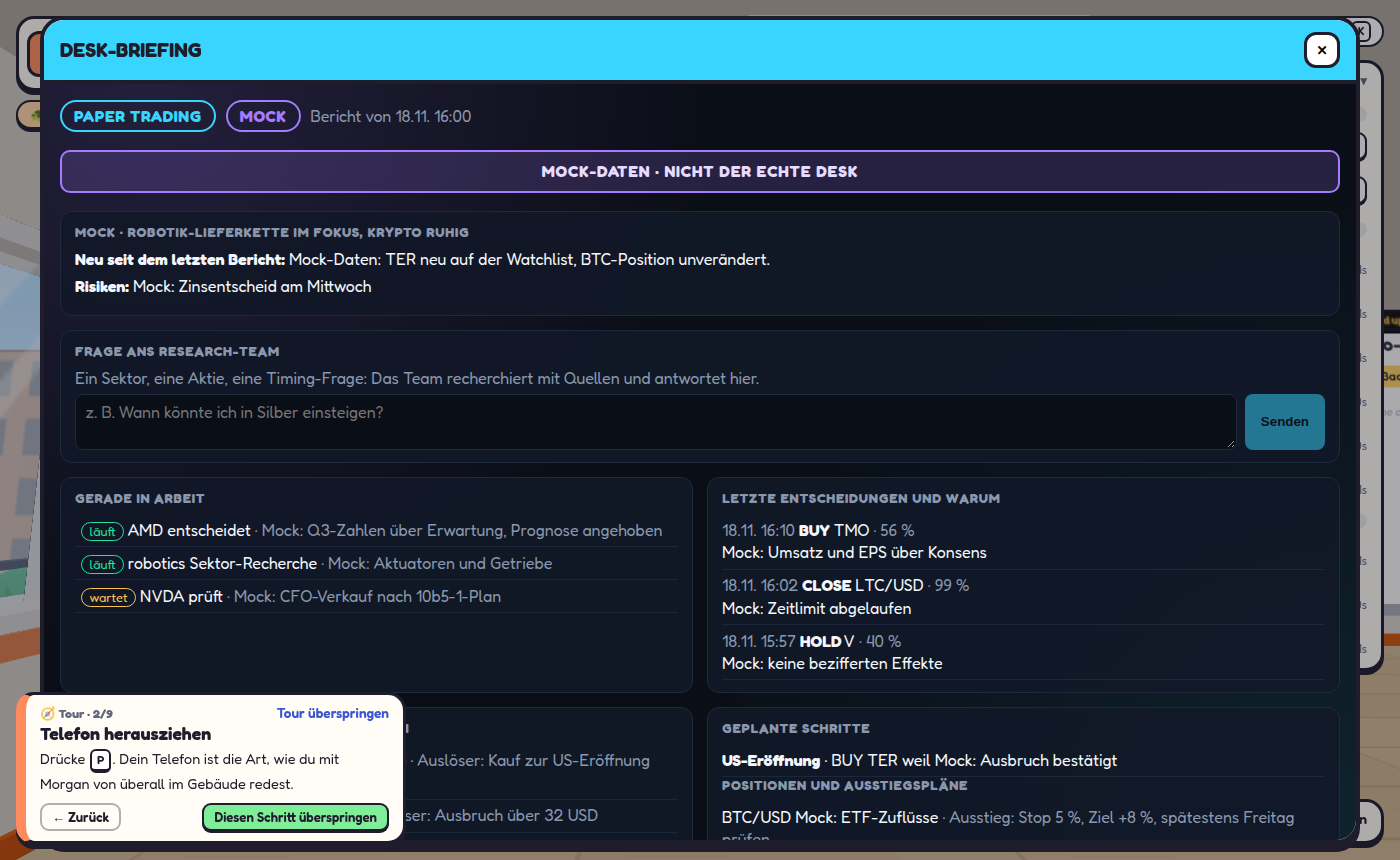
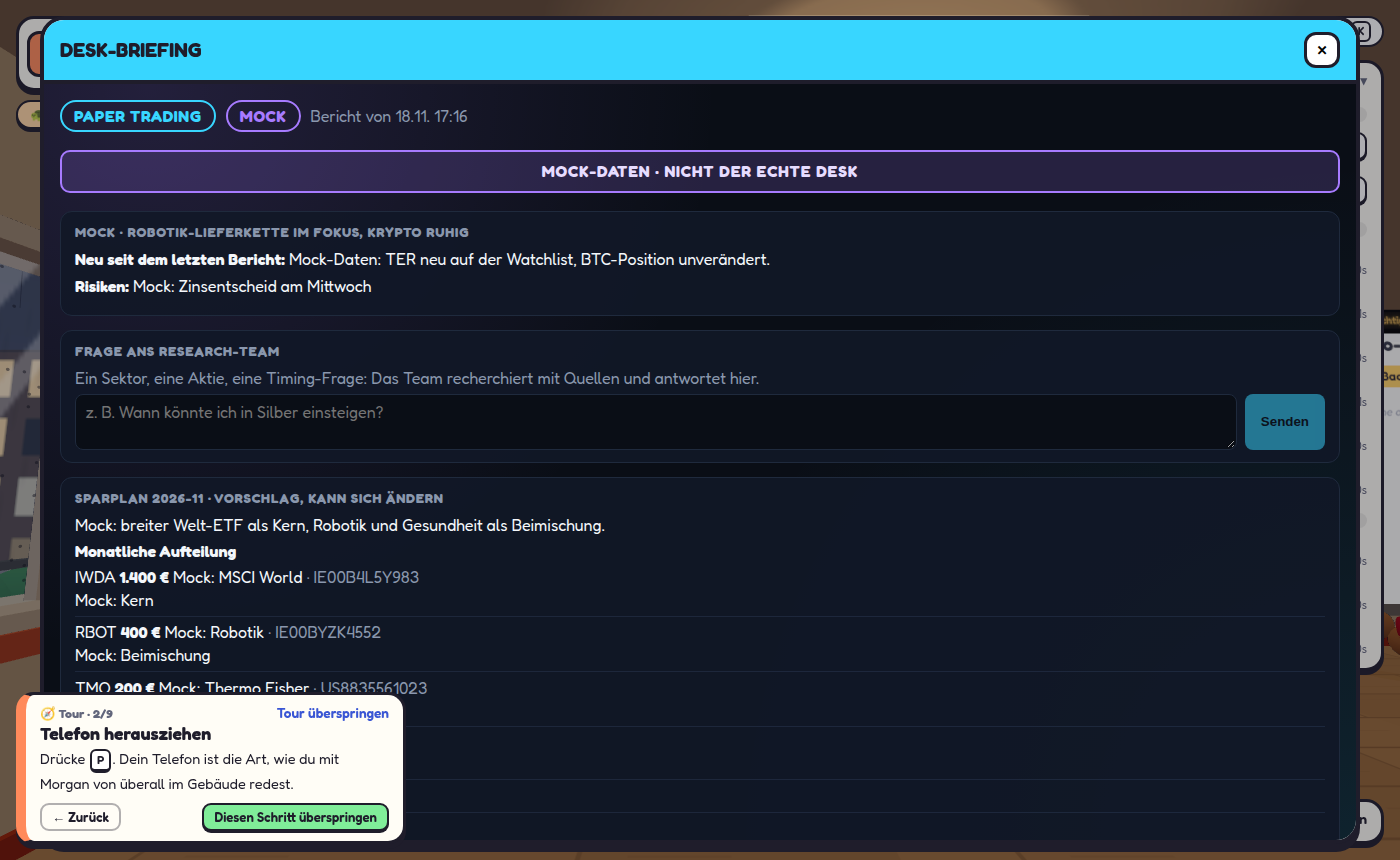
feat: the research team's savings plan on the desk briefing board
The board's bottom-middle tile now shows the long-term monthly savings plan
(EUR allocation, or what the team is looking at while it researches) instead
of the sectors, which stay in the panel. The panel shows the full plan:
summary, allocation with ISIN, candidates, changes, risks and sources.

Claude-Session: https://claude.ai/code/session_01PYo2Heo6wDgVbiqW73GTLY

diff --git a/shared/briefing.ts b/shared/briefing.ts
@@ -77,6 +77,17 @@ export interface DecisionItem {
   confidence: number | null;
   reason: string;
 }
+/** The research team's long-term monthly savings plan (separate from the trading desk). */
+export interface SavingsPlan {
+  month: string;
+  stage: string;
+  summary: string;
+  lookingAt: { symbol: string; name: string; status: string; why: string }[];
+  allocation: { symbol: string; name: string; isin: string; eur: number; why: string }[];
+  changes: string;
+  risks: string;
+  sources: string[];
+}
 export interface WatchEntry {
   symbol: string;
   source: string;
@@ -97,6 +108,8 @@ export interface BriefingView {
   watchlist: WatchEntry[];
   activity: ActivityItem[];
   decisions: DecisionItem[];
+  savingsPlan: SavingsPlan | null;
+  savingsPlanAt: number | null;
 }
 
 export const emptyBriefingView = (): BriefingView => ({
@@ -111,6 +124,8 @@ export const emptyBriefingView = (): BriefingView => ({
   watchlist: [],
   activity: [],
   decisions: [],
+  savingsPlan: null,
+  savingsPlanAt: null,
 });
 
 // ---------- parsing ----------
@@ -169,8 +184,30 @@ function parseAnswer(v: unknown): InquiryAnswer | null {
   };
 }
 
+function parseSavingsPlan(v: unknown): SavingsPlan | null {
+  const p = obj(v);
+  if (!Object.keys(p).length) return null;
+  return {
+    month: str(p.month, 20),
+    stage: str(p.stage, 20),
+    summary: str(p.summary, 1200),
+    lookingAt: list(p.looking_at, 12).map((c) => {
+      const o = obj(c);
+      return { symbol: str(o.symbol, 20), name: str(o.name, 80), status: str(o.status, 20), why: str(o.why, 400) };
+    }).filter((c) => c.symbol || c.name),
+    allocation: list(p.allocation, 12).map((c) => {
+      const o = obj(c);
+      const eur = typeof o.eur === 'number' && Number.isFinite(o.eur) ? Math.max(0, o.eur) : 0;
+      return { symbol: str(o.symbol, 20), name: str(o.name, 80), isin: str(o.isin, 20), eur, why: str(o.why, 400) };
+    }).filter((c) => c.symbol || c.name),
+    changes: str(p.changes, 600),
+    risks: str(p.risks, 800),
+    sources: httpsOnly(strings(p.sources, 12, 300)),
+  };
+}
+
 /** MoneyPrint's `moneyprint.briefing/v1` answer as the board's fields; throws on another format. */
-export function parseBriefing(raw: unknown): Pick<BriefingView, 'briefingAt' | 'briefing' | 'history' | 'inquiries' | 'watchlist' | 'activity' | 'decisions'> {
+export function parseBriefing(raw: unknown): Pick<BriefingView, 'briefingAt' | 'briefing' | 'history' | 'inquiries' | 'watchlist' | 'activity' | 'decisions' | 'savingsPlan' | 'savingsPlanAt'> {
   const r = obj(raw);
   if (r.schema !== 'moneyprint.briefing/v1') throw new Error('unknown format');
   return {
@@ -208,6 +245,8 @@ export function parseBriefing(raw: unknown): Pick<BriefingView, 'briefingAt' | '
       const c = typeof o.confidence === 'number' && Number.isFinite(o.confidence) ? Math.min(1, Math.max(0, o.confidence)) : null;
       return { desk: str(o.desk, 40), at: time(o.at), symbol: str(o.symbol, 20), action: str(o.action, 12), confidence: c, reason: str(o.reason, 400) };
     }).filter((d) => d.symbol),
+    savingsPlan: parseSavingsPlan(r.savings_plan),
+    savingsPlanAt: time(r.savings_plan_at),
   };
 }
 

diff --git a/client/src/ui/BriefingPanel.tsx b/client/src/ui/BriefingPanel.tsx
@@ -161,6 +161,66 @@ export function BriefingPanel() {
 
         <AskBox />
 
+        <section className="trading-card">
+          <h3>
+            {v.savingsPlan ? `${t('briefing.savings', { month: v.savingsPlan.month })} · ${t(`briefing.stage.${v.savingsPlan.stage === 'final' ? 'final' : v.savingsPlan.stage === 'research' ? 'research' : 'proposal'}`)}` : t('briefing.savings', { month: '' })}
+          </h3>
+          {!v.savingsPlan ? (
+            <p className="trading-muted">{t('briefing.savingsNone')}</p>
+          ) : (
+            <>
+              <p>{v.savingsPlan.summary}</p>
+              {!!v.savingsPlan.allocation.length && (
+                <>
+                  <b>{t('briefing.allocation')}</b>
+                  <ul className="briefing-list">
+                    {v.savingsPlan.allocation.map((a, i) => (
+                      <li key={i}>
+                        <span className="sym">{a.symbol || a.name}</span> <b>{Math.round(a.eur).toLocaleString('de-DE')} €</b> {a.name}
+                        {a.isin && <span className="trading-muted"> · {a.isin}</span>}
+                        <br />
+                        {a.why}
+                      </li>
+                    ))}
+                  </ul>
+                </>
+              )}
+              {!!v.savingsPlan.lookingAt.length && (
+                <>
+                  <b>{t('briefing.lookingAt')}</b>
+                  <ul className="briefing-list">
+                    {v.savingsPlan.lookingAt.map((c, i) => (
+                      <li key={i}>
+                        <span className="sym">{c.symbol || c.name}</span> <span className="briefing-stance">{c.status}</span> {c.why}
+                      </li>
+                    ))}
+                  </ul>
+                </>
+              )}
+              {v.savingsPlan.changes && (
+                <p>
+                  <b>{t('briefing.changes')}:</b> {v.savingsPlan.changes}
+                </p>
+              )}
+              {v.savingsPlan.risks && (
+                <p>
+                  <b>{t('briefing.risks')}:</b> {v.savingsPlan.risks}
+                </p>
+              )}
+              {!!v.savingsPlan.sources.length && (
+                <p className="briefing-sources">
+                  <b>{t('briefing.sources')}:</b>{' '}
+                  {v.savingsPlan.sources.map((u, i) => (
+                    <a key={u} href={u} target="_blank" rel="noreferrer noopener">
+                      [{i + 1}]
+                    </a>
+                  ))}
+                </p>
+              )}
+            </>
+          )}
+        </section>
+
         <div className="trading-cols">
           <section className="trading-card">
             <h3>{t('briefing.activity')}</h3>

diff --git a/client/src/world/briefingDraw.ts b/client/src/world/briefingDraw.ts
@@ -124,12 +124,22 @@ export function drawBriefingWall(ctx: CanvasRenderingContext2D, w: number, h: nu
     line(ctx, `${m.when} · ${m.action.toUpperCase()} ${m.symbol}`, cx[0] + 22, y - 4, 22, stanceColor(m.action), cw - 40, 700);
     line(ctx, `${t('briefing.because')} ${m.because}`, cx[0] + 22, y + 20, 18, TC.dim, cw - 40, 500);
   });
-  card(ctx, cx[1], r2, cw, r2h, t('briefing.sectors'), TC.violet);
-  (b?.sectors ?? []).slice(0, 4).forEach((sv, i) => {
-    const y = r2 + 90 + i * 52;
-    line(ctx, `${sv.sector.replace(/_/g, ' ')}${sv.symbols.length ? ` · ${sv.symbols.slice(0, 4).join(', ')}` : ''}`, cx[1] + 22, y - 4, 22, TC.violet, cw - 40, 700);
-    line(ctx, sv.view, cx[1] + 22, y + 20, 18, TC.text, cw - 40, 500);
-  });
+  // the research team's long-term savings plan (the sectors are in the panel)
+  const sp = v.savingsPlan;
+  card(ctx, cx[1], r2, cw, r2h, sp ? `${t('briefing.savings', { month: sp.month })} · ${t(`briefing.stage.${sp.stage === 'final' ? 'final' : sp.stage === 'research' ? 'research' : 'proposal'}`)}` : t('briefing.savings', { month: '' }), TC.green);
+  if (!sp) line(ctx, t('briefing.savingsNone'), cx[1] + 22, r2 + 96, 20, TC.dim, cw - 40, 500);
+  else if (sp.allocation.length)
+    sp.allocation.slice(0, 4).forEach((a, i) => {
+      const y = r2 + 90 + i * 52;
+      line(ctx, `${a.symbol || a.name} · ${Math.round(a.eur).toLocaleString('de-DE')} €`, cx[1] + 22, y - 4, 22, TC.green, cw - 40, 700);
+      line(ctx, a.why || a.name, cx[1] + 22, y + 20, 18, TC.text, cw - 40, 500);
+    });
+  else
+    sp.lookingAt.slice(0, 4).forEach((c, i) => {
+      const y = r2 + 90 + i * 52;
+      line(ctx, `${c.symbol || c.name} · ${c.status}`, cx[1] + 22, y - 4, 22, TC.green, cw - 40, 700);
+      line(ctx, c.why, cx[1] + 22, y + 20, 18, TC.text, cw - 40, 500);
+    });
   card(ctx, cx[2], r2, cw, r2h, t('briefing.questions'), TC.cyan);
   const q = v.inquiries[0];
   if (!q) line(ctx, t('briefing.noQuestions'), cx[2] + 22, r2 + 96, 22, TC.dim, cw - 40, 500);

diff --git a/server/briefing.ts b/server/briefing.ts
@@ -203,6 +203,24 @@ export function mockBriefing(now: number) {
       { kind: 'research_theme', desk: 'robotics', status: 'running' as const, symbol: 'robotics', title: 'Mock: Aktuatoren und Getriebe', since: now - 300_000 },
       { kind: 'review_proposal', desk: 'insider_politics', status: 'queued' as const, symbol: 'NVDA', title: 'Mock: CFO-Verkauf nach 10b5-1-Plan', since: null },
     ],
+    savingsPlan: {
+      month: '2026-11',
+      stage: 'proposal',
+      summary: 'Mock: breiter Welt-ETF als Kern, Robotik und Gesundheit als Beimischung.',
+      lookingAt: [
+        { symbol: 'IWDA', name: 'Mock: MSCI World UCITS', status: 'favorite', why: 'Mock: breit gestreut, günstig' },
+        { symbol: 'RBOT', name: 'Mock: Robotik UCITS', status: 'candidate', why: 'Mock: Aktuatoren-Nachfrage' },
+      ],
+      allocation: [
+        { symbol: 'IWDA', name: 'Mock: MSCI World', isin: 'IE00B4L5Y983', eur: 1400, why: 'Mock: Kern' },
+        { symbol: 'RBOT', name: 'Mock: Robotik', isin: 'IE00BYZK4552', eur: 400, why: 'Mock: Beimischung' },
+        { symbol: 'TMO', name: 'Mock: Thermo Fisher', isin: 'US8835561023', eur: 200, why: 'Mock: Bio-Werkzeuge' },
+      ],
+      changes: 'Mock: erster Plan',
+      risks: 'Mock: Themen-ETFs schwanken stark',
+      sources: [],
+    },
+    savingsPlanAt: now - 3_600_000,
     decisions: [
       { desk: 'news', at: now - 120_000, symbol: 'TMO', action: 'buy', confidence: 0.56, reason: 'Mock: Umsatz und EPS über Konsens' },
       { desk: 'positions', at: now - 600_000, symbol: 'LTC/USD', action: 'close', confidence: 0.99, reason: 'Mock: Zeitlimit abgelaufen' },

diff --git a/shared/briefing.test.ts b/shared/briefing.test.ts
@@ -52,6 +52,17 @@ describe('parseBriefing', () => {
     expect(r.decisions).toEqual([{ desk: 'news', at: null, symbol: 'NVDA', action: 'buy', confidence: 1, reason: 'Beat' }]);
   });
 
+  it('reads the savings plan with EUR amounts and https sources only', () => {
+    const r = parseBriefing({
+      schema: 'moneyprint.briefing/v1',
+      savings_plan_at: '2026-11-18T17:00:00Z',
+      savings_plan: { month: '2026-11', stage: 'proposal', allocation: [{ symbol: 'IWDA', eur: 1400 }, { eur: 'x' }], sources: ['https://a.example', 'javascript:x'] },
+    });
+    expect(r.savingsPlan?.allocation).toEqual([{ symbol: 'IWDA', name: '', isin: '', eur: 1400, why: '' }]);
+    expect(r.savingsPlan?.sources).toEqual(['https://a.example']);
+    expect(r.savingsPlanAt).toBe(Date.parse('2026-11-18T17:00:00Z'));
+  });
+
   it('refuses another format and tolerates an empty briefing', () => {
     expect(() => parseBriefing({ schema: 'other' })).toThrow('unknown format');
     expect(parseBriefing({ schema: 'moneyprint.briefing/v1', briefing: null }).briefing).toBeNull();

diff --git a/client/src/world/BriefingWall.tsx b/client/src/world/BriefingWall.tsx
@@ -30,7 +30,7 @@ export function BriefingWall() {
     return () => clearInterval(id);
   }, []);
   const state = briefingState(v, clock);
-  const sig = useMemo(() => JSON.stringify([v.briefingAt, v.briefing, v.inquiries[0], v.error, v.activity, v.decisions]), [v]);
+  const sig = useMemo(() => JSON.stringify([v.briefingAt, v.briefing, v.inquiries[0], v.error, v.activity, v.decisions, v.savingsPlan]), [v]);
   const tex = useCanvasTexture(BRIEFING_PX[0], BRIEFING_PX[1], (ctx) => drawBriefingWall(ctx, BRIEFING_PX[0], BRIEFING_PX[1], v, state), [sig, state]);
   const ref = useInteractable<THREE.Group>({ id: 'briefing-wall', label: t('briefing.open'), action: { kind: 'briefing' } }, 7);
   const s = BRIEFING_WALL;

diff --git a/shared/i18n/de/trading.ts b/shared/i18n/de/trading.ts
@@ -131,4 +131,12 @@ export const trading = {
   'briefing.running': 'läuft',
   'briefing.queued': 'wartet',
   'briefing.noActivity': 'Gerade arbeitet niemand.',
+  'briefing.savings': 'Sparplan {month}',
+  'briefing.savingsNone': 'Noch kein Sparplan: Das Research-Team erstellt ihn jede Woche.',
+  'briefing.stage.research': 'Recherche',
+  'briefing.stage.proposal': 'Vorschlag, kann sich ändern',
+  'briefing.stage.final': 'final',
+  'briefing.lookingAt': 'Im Blick',
+  'briefing.allocation': 'Monatliche Aufteilung',
+  'briefing.changes': 'Änderungen',
 } satisfies TranslationOf<typeof English>;

diff --git a/shared/i18n/en/trading.ts b/shared/i18n/en/trading.ts
@@ -130,4 +130,12 @@ export const trading = {
   'briefing.running': 'running',
   'briefing.queued': 'waiting',
   'briefing.noActivity': 'Nobody is working right now.',
+  'briefing.savings': 'Savings plan {month}',
+  'briefing.savingsNone': 'No savings plan yet: the research team writes one every week.',
+  'briefing.stage.research': 'research',
+  'briefing.stage.proposal': 'proposal, may change',
+  'briefing.stage.final': 'final',
+  'briefing.lookingAt': 'Looking at',
+  'briefing.allocation': 'Monthly allocation',
+  'briefing.changes': 'Changes',
 } as const;
